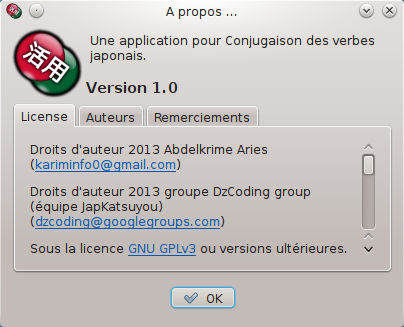
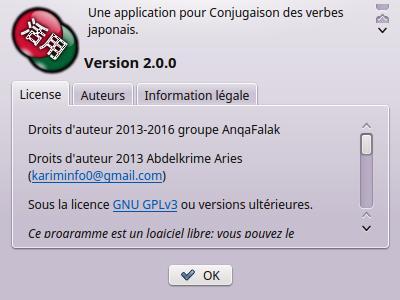
update french help

diff --git a/jpconj/Media/help/fr/about.html b/jpconj/Media/help/fr/about.html
@@ -3,7 +3,7 @@
   <meta charset="utf-8"/>
   <title>A propos de JapKatsuyou</title>
   <meta name="author" content="Karim" />
-  <meta name="date" content="2013-11-24T19:04:21+0100" /><!--yyyy/mm/dd-->
+  <meta name="date" content="2016/05/28 11:38:34" /><!--yyyy/mm/dd-->
   <meta name="email" content="kariminfo0@gmail.com"/>
   <meta name="copyright" content="http://creativecommons.org/licenses/by-sa/3.0/"/>
   <meta name="language" content="french"/>
@@ -35,15 +35,22 @@ Ex. 勉強する, 選択する, 連絡する, etc.</li>
 <li>Les tableaux de conjugaison peuvent être exportés vers trois formats: pdf, odt, and htm.</li>
 </ul>
 </p>
+<p>
+fonctionnalités de la version 2:
+<ul>
+<li>Donner des examples sur les verbes.</li>
+<li>Plus de préférences: polices et icônes. </li>
+<li>Presentation du furigana et du romaji pour les nouveaux apprenants.</li>
+</ul>
+</p>
 
 <h2 id="license">Licence de JapKatsuyou</h2>
 <p>
-Droits d'auteur 2013 Abdelkrime Aries
-(<a href="mailto:kariminfo0@gmail.com">kariminfo0@gmail.com</a>)
+Droits d'auteur 2013-2016 groupe AnqaFalak
 </p>
 <p>
-Droits d'auteur 2013 groupe DzCoding group (équipe JapKatsuyou)
-(<a href="mailto:dzcoding@googlegroups.com">dzcoding@googlegroups.com</a>)
+Droits d'auteur 2013 Abdelkrime Aries
+(<a href="mailto:kariminfo0@gmail.com">kariminfo0@gmail.com</a>)
 </p>
 
 <p>
@@ -71,8 +78,58 @@ ou versions ultérieures.
 </p>
 </i></blockquote>
 
-<h2 id="database">Base de données de verbes utilisée dans JapKatsuyou</h2>
-La base de données de verbes est extraite du dictionnaire <a href="http://www.csse.monash.edu.au/~jwb/edict.html">Edict2</a>
-qui est sous la licence <a href="http://creativecommons.org/licenses/by-sa/3.0/">CC-BY-SA-3.0</a>.
+<h2 id="legal">Information légale</h2>
+
+<h3>Code</h3>
+<p>
+Le code de ce logiciel est sous la licence  
+<a href="http://www.apache.org/licenses/LICENSE-2.0">
+Apache version 2
+</a>
+<br>
+<a href="https://github.com/AnqaFalak/JapKatsuyou">
+Source
+</a>
+</p>
+
+<h3>Tierce partie</h3>
+<p>
+Ce logiciel utilise d'autres matériaux:
+</p>
+
+<h4>Edict2</h4>
+<p>
+Utilisé pour vérifier l'existence de verbes.<br>
+Droits d'auteur: <a href="mailto:jim.breen@monash.edu">Jim Breen</a> 
+et <a href="http://www.edrdg.org/edrdg/index.html">le groupe EDRDG</a>
+<br>
+Sous la licence 
+<a href="http://creativecommons.org/licenses/by-sa/3.0/">CC-BY-SA-3.0</a>
+<br>
+<a href="http://www.csse.monash.edu.au/~jwb/edict.html">Source</a> 
+</p>
+
+<h4>Examples de Tatoeba</h4>
+<p>
+Utilisé pour donner des exemples dans les différentes langues.<br>
+Droits d'auteur: <a href="https://tatoeba.org">tatoeba.org</a> 
+<br>
+Sous la licence 
+<a href="https://creativecommons.org/licenses/by/2.0/">CC-BY-2.0</a>
+<br>
+<a href="https://tatoeba.org/fra/downloads">Source</a> 
+</p>
+
+
+<h4>KIcona</h4>
+<p>
+Utilisé pour les icônes de l'application.<br>
+Droits d'auteur: <a href="mailto:kariminfo0@gmail.com">Abdelkrime Aries</a>
+<br>
+Sous la licence 
+<a href="http://creativecommons.org/licenses/by-sa/3.0/">CC-BY-SA-3.0</a>
+<br>
+<a href="https://github.com/kariminf/K-Icona">Source</a> 
+</p>
 </body>
 </html>

diff --git a/jpconj/Media/help/fr/gui.html b/jpconj/Media/help/fr/gui.html
@@ -3,7 +3,7 @@
   <meta charset="utf-8"/>
   <title>Interface utilisateur</title>
   <meta name="author" content="Karim" />
-  <meta name="date" content="2013-11-24T19:44:30+0100" /><!--yyyy/mm/dd-->
+  <meta name="date" content="2016/05/28 12:07:53" /><!--yyyy/mm/dd-->
   <meta name="email" content="kariminfo0@gmail.com"/>
   <meta name="copyright" content="http://creativecommons.org/licenses/by-sa/3.0/"/>
   <meta name="language" content="french"/>
@@ -21,8 +21,8 @@ L'application contient cinq parties:
 <li><a href="#menubar">Barre de menus</a></li>
 <li><a href="#toolbars">Barres d'outils</a></li>
 <li><a href="#search">Panneau de recherche</a></li>
-<li><a href="#type">Type de verbe</a></li>
 <li><a href="#result">Résultat de conjugaison</a></li>
+<li><a href="#exp">Exemples</a></li>
 </ol>
 En outre, l'interface utilisateur est traduite en d'autres langues que le français: arabe, anglais, japonais.
 <br>
@@ -81,7 +81,12 @@ Il doit être en forme de dictionnaire (forme U). Par exemple: 行く, 食べる
 Ensuite, vous pouvez soit appuyer sur la touche "Entrer" ou le bouton "Conjuguer" pour obtenir le résultat.
 </p>
 
-<h2 id="type">Type de verbe</h2>
+<h2 id="result">Résultat de conjugaison</h2>
+<p>
+Le résultat contient trois tableaux:
+</p>
+
+<h4>Information sur le verbe</h4>
 <p>
 L'application vous donne des informations sur le verbe d'entrée.
 Si le verbe n'existe pas dans la base de données, elle vous affiche un message disant ça.
@@ -105,30 +110,28 @@ Ceci est un liste de la plupart des types importants de verbes:
 <li>... etc.</li>
 </ul>
 </p>
+<img src="gui_info.jpg" />
 
-<h2 id="result">Résultat de conjugaison</h2>
-<p>
-Le résultat contient trois tableaux:
-</p>
-
-<h4>1- Conjugaison standard</h4>
+<h4>Conjugaison standard</h4>
 <p>
 Elle est utilisée par les Japonais pour apprendre la conjugaison des verbes. <br>
 <img src="gui_standard.jpg" />
 </p>
 
-<h4>2- Conjugaison de base</h4>
+<h4>Conjugaison de base</h4>
 <p>
 Elle montre les radicaux de base: a e u i o plus la forme t.<br>
 <img src="gui_basic.jpg" />
 </p>
 
-<h4>3- Conjugaison complexe</h4>
+<h4>Conjugaison complexe</h4>
 <p>
 Elle montre certaines formes complexes, qui sont originaires des radicaux de base suivis par des suffixes.<br>
 <img src="gui_complex.jpg" />
 </p>
 
+<h2 id="exp">Exemples</h2>
+<img src="gui_exp.jpg" />
 
 </body>
 </html>
